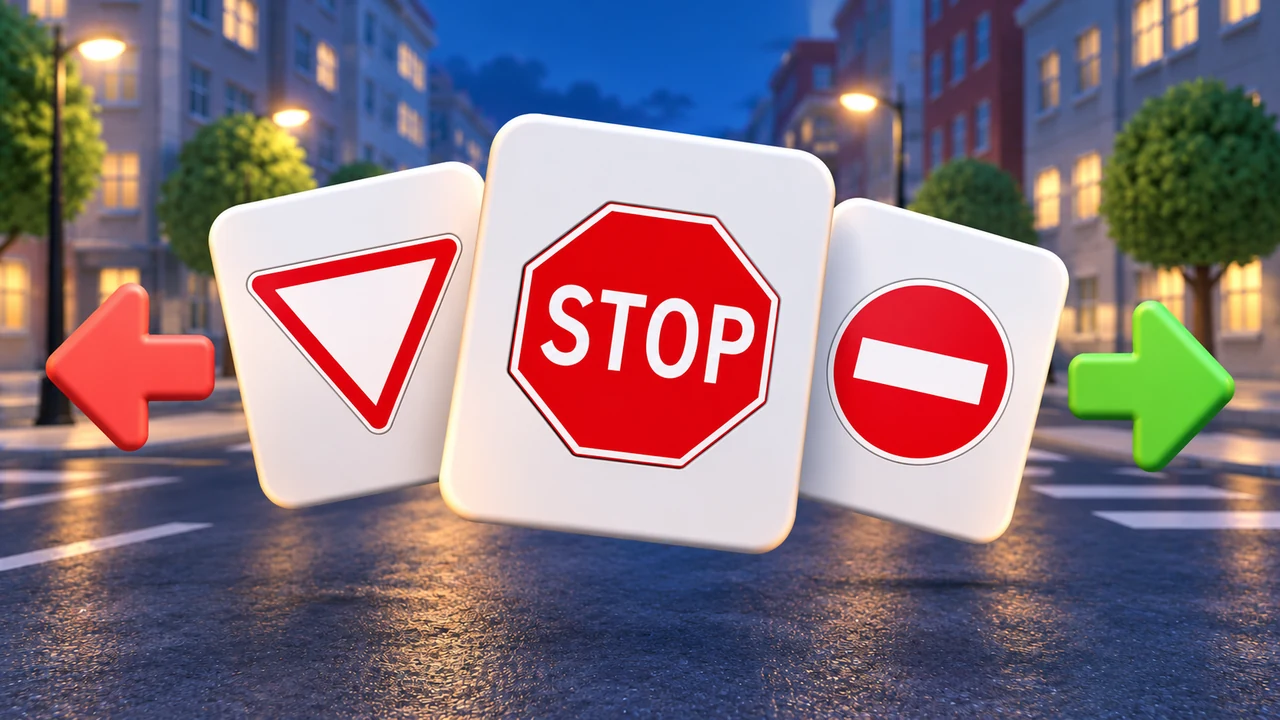
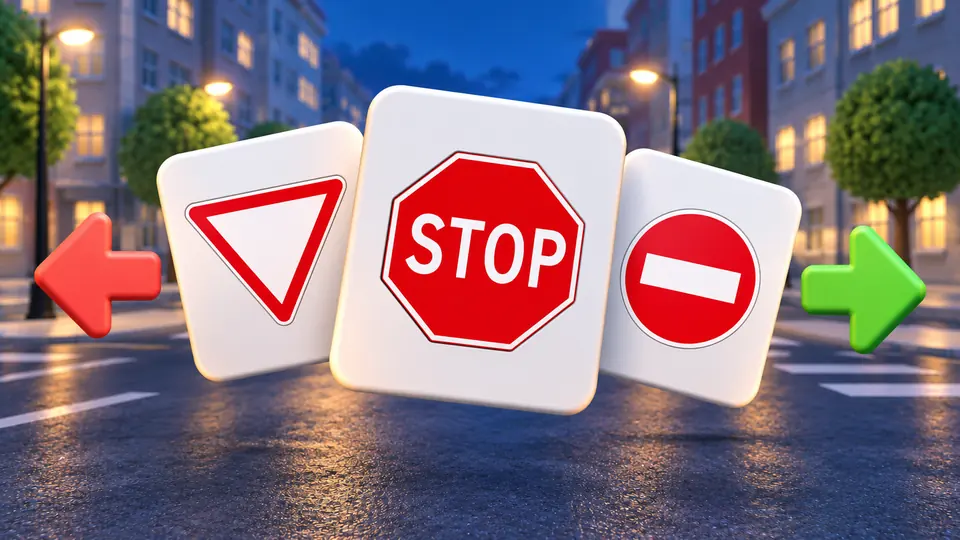
Мини-игры: полные обложки в результатах и оптимизация изображений

Changed region(s): [[0.3125, 0.8889, 0.4062, 1.0]]

diff --git a/lib/presentation/screens/games/games_hub_screen.dart b/lib/presentation/screens/games/games_hub_screen.dart
@@ -1,5 +1,4 @@
 import 'dart:math' as math;
-import 'dart:ui' as ui;
 
 import 'package:flutter/material.dart';
 import 'package:flutter_riverpod/flutter_riverpod.dart';
@@ -49,21 +48,21 @@ class GamesHubScreen extends ConsumerWidget {
             ),
           ),
           _GameCard(
-            art: const TrafficControllerArt(),
+            art: const TrafficControllerArt(forCard: true),
             title: appL10n.gameTrafficControllerTitle,
             bestScore: traffic.bestScore,
             onTap: () => _open(context, const TrafficControllerScreen()),
           ),
           const SizedBox(height: AppDimensions.spacingL),
           _GameCard(
-            art: const SignSwiperArt(),
+            art: const SignSwiperArt(forCard: true),
             title: appL10n.gameSignSwiperTitle,
             bestScore: signs.bestScore,
             onTap: () => _open(context, const SignSwiperScreen()),
           ),
           const SizedBox(height: AppDimensions.spacingL),
           _GameCard(
-            art: const RoundaboutArt(),
+            art: const RoundaboutArt(forCard: true),
             title: appL10n.gameRoundaboutTitle,
           ),
         ],
@@ -121,32 +120,19 @@ class _GameCard extends StatelessWidget {
                       fit: StackFit.expand,
                       children: [
                         art,
-                        // Мягко вводим размытие только в нижней части фото.
-                        ShaderMask(
-                          blendMode: BlendMode.dstIn,
-                          shaderCallback: (rect) => const LinearGradient(
-                            begin: Alignment.topCenter,
-                            end: Alignment.bottomCenter,
-                            colors: [Colors.transparent, Colors.white],
-                            stops: [0.58, 1],
-                          ).createShader(rect),
-                          child: ImageFiltered(
-                            imageFilter: ui.ImageFilter.blur(
-                              sigmaX: 3,
-                              sigmaY: 3,
-                            ),
-                            child: art,
-                          ),
-                        ),
-                        const DecoratedBox(
+                        DecoratedBox(
                           decoration: BoxDecoration(
                             gradient: LinearGradient(
                               begin: Alignment.topCenter,
                               end: Alignment.bottomCenter,
                               colors: [
                                 Colors.transparent,
-                                Color(0x18091121),
-                                Color(0xD9091121),
+                                available
+                                    ? const Color(0x18091121)
+                                    : const Color(0x18101010),
+                                available
+                                    ? const Color(0xD9091121)
+                                    : const Color(0xD9101010),
                               ],
                               stops: [0.25, 0.45, 1],
                             ),
@@ -240,34 +226,7 @@ class _GameCard extends StatelessWidget {
         ),
       ),
     );
-    if (available) return card;
-    return Opacity(
-      opacity: 0.55,
-      child: ColorFiltered(
-        colorFilter: const ColorFilter.matrix([
-          0.2126,
-          0.7152,
-          0.0722,
-          0,
-          0,
-          0.2126,
-          0.7152,
-          0.0722,
-          0,
-          0,
-          0.2126,
-          0.7152,
-          0.0722,
-          0,
-          0,
-          0,
-          0,
-          0,
-          1,
-          0,
-        ]),
-        child: card,
-      ),
-    );
+    if (available) return RepaintBoundary(child: card);
+    return Opacity(opacity: 0.55, child: RepaintBoundary(child: card));
   }
 }

diff --git a/lib/presentation/screens/games/widgets/game_art.dart b/lib/presentation/screens/games/widgets/game_art.dart
@@ -1,51 +1,73 @@
+import 'dart:math' as math;
+
 import 'package:flutter/material.dart';
 
-/// Игровые обложки в единой обработке: реальная сцена и карточки знаков.
-
-/// Обложка на основе настоящего кадра «Регулировщика».
+/// Карточки используют подготовленный blur; результаты — чёткий оригинал.
 class TrafficControllerArt extends StatelessWidget {
-  const TrafficControllerArt({super.key});
+  const TrafficControllerArt({super.key, this.forCard = false});
+
+  final bool forCard;
 
   @override
-  Widget build(BuildContext context) {
-    return Image.asset(
-      'assets/images/games/traffic_controller_cover.webp',
-      fit: BoxFit.cover,
-      alignment: Alignment.center,
-      filterQuality: FilterQuality.high,
-      gaplessPlayback: true,
-    );
-  }
+  Widget build(BuildContext context) => _GameCoverImage(
+    asset:
+        'assets/images/games/traffic_controller_${forCard ? 'card' : 'cover'}.webp',
+  );
 }
 
-/// Карточки со знаками и направлениями свайпа.
 class SignSwiperArt extends StatelessWidget {
-  const SignSwiperArt({super.key});
+  const SignSwiperArt({super.key, this.forCard = false});
+
+  final bool forCard;
 
   @override
-  Widget build(BuildContext context) {
-    return Image.asset(
-      'assets/images/games/sign_swiper_cover.webp',
-      fit: BoxFit.cover,
-      alignment: Alignment.center,
-      filterQuality: FilterQuality.high,
-      gaplessPlayback: true,
-    );
-  }
+  Widget build(BuildContext context) => _GameCoverImage(
+    asset: 'assets/images/games/sign_swiper_${forCard ? 'card' : 'cover'}.webp',
+  );
 }
 
-/// Круговое движение; недоступное состояние задаёт сама карточка.
+/// Неактивная карточка уже обесцвечена при подготовке ассета.
 class RoundaboutArt extends StatelessWidget {
-  const RoundaboutArt({super.key});
+  const RoundaboutArt({super.key, this.forCard = false});
+
+  final bool forCard;
+
+  @override
+  Widget build(BuildContext context) => _GameCoverImage(
+    asset: 'assets/images/games/roundabout_${forCard ? 'card' : 'cover'}.webp',
+  );
+}
+
+class _GameCoverImage extends StatelessWidget {
+  const _GameCoverImage({required this.asset});
+
+  final String asset;
 
   @override
   Widget build(BuildContext context) {
-    return Image.asset(
-      'assets/images/games/roundabout_cover.webp',
-      fit: BoxFit.cover,
-      alignment: Alignment.center,
-      filterQuality: FilterQuality.high,
-      gaplessPlayback: true,
+    return LayoutBuilder(
+      builder: (context, constraints) {
+        final width = constraints.hasBoundedWidth
+            ? constraints.maxWidth
+            : 480.0;
+        final heightWidth = constraints.hasBoundedHeight
+            ? constraints.maxHeight * 16 / 9
+            : width;
+        final pixels =
+            math.max(width, heightWidth) *
+            MediaQuery.devicePixelRatioOf(context);
+        // Три стабильных размера сохраняют общий image cache между экранами.
+        // На обычном телефоне — 480/720 px, на плотном дисплее — не более 960.
+        final decodeWidth = pixels <= 480 ? 480 : (pixels <= 720 ? 720 : 960);
+        return Image.asset(
+          asset,
+          fit: BoxFit.cover,
+          alignment: Alignment.center,
+          cacheWidth: decodeWidth,
+          filterQuality: FilterQuality.low,
+          gaplessPlayback: true,
+        );
+      },
     );
   }
 }

diff --git a/test/mini_games_flow_test.dart b/test/mini_games_flow_test.dart
@@ -19,6 +19,7 @@ import 'package:pdd_app/presentation/screens/games/sign_swiper/sign_swiper_scree
 import 'package:pdd_app/presentation/screens/games/sign_swiper/widgets/swipe_card_view.dart';
 import 'package:pdd_app/presentation/screens/games/traffic_controller/traffic_controller_screen.dart';
 import 'package:pdd_app/presentation/screens/games/widgets/game_ui.dart';
+import 'package:pdd_app/presentation/screens/games/widgets/game_art.dart';
 import 'package:shared_preferences/shared_preferences.dart';
 import 'package:webview_flutter_platform_interface/webview_flutter_platform_interface.dart';
 
@@ -322,6 +323,58 @@ void main() {
     await tester.pumpWidget(const SizedBox());
   });
 
+  for (final (name, art) in [
+    ('Traffic', const TrafficControllerArt()),
+    ('Swiper', const SignSwiperArt()),
+  ]) {
+    testWidgets('$name result shows the full cover on a compact screen', (
+      tester,
+    ) async {
+      var restarts = 0, exits = 0;
+      await open(
+        tester,
+        Scaffold(
+          body: GameResultOverlay(
+            art: art,
+            title: appL10n.gameOverTitle,
+            score: 3900,
+            bestScore: 1500,
+            isNewRecord: false,
+            stats: [
+              GameResultStat(appL10n.gameSolvedLabel, '10'),
+              GameResultStat(appL10n.gameAccuracyLabel, '77%'),
+              GameResultStat(appL10n.gameComboLabel, 'x8'),
+            ],
+            mistakesCount: 3,
+            onMistakes: () {},
+            onRestart: () => restarts++,
+            onExit: () => exits++,
+          ),
+        ),
+        size: const Size(320, 568),
+        textScale: 1.6,
+      );
+      await tester.pumpAndSettle();
+      final image = find.byType(Image);
+      final frame = tester.getRect(image);
+      // BoxFit.cover can crop only if the box disagrees with the 16:9 source.
+      expect(frame.width / frame.height, closeTo(16 / 9, 0.001));
+      final provider = tester.widget<Image>(image).image as ResizeImage;
+      expect(
+        (provider.imageProvider as AssetImage).assetName,
+        endsWith('_cover.webp'),
+      );
+      await tester.ensureVisible(find.text(appL10n.gameRestart));
+      await tester.tap(find.text(appL10n.gameRestart));
+      expect(restarts, 1);
+      await tester.ensureVisible(find.text(appL10n.gameExit));
+      await tester.tap(find.text(appL10n.gameExit));
+      expect(exits, 1);
+      expect(tester.takeException(), isNull);
+      await tester.pumpWidget(const SizedBox());
+    });
+  }
+
   testWidgets('Hub cover cards remain readable at 320px and large text', (
     tester,
   ) async {
@@ -352,7 +405,6 @@ void main() {
     );
     expect(find.text(appL10n.gameBestScore(123456789)), findsOneWidget);
     expect(find.text(appL10n.gameBestScore(987654321)), findsOneWidget);
-    expect(find.byType(ImageFiltered), findsNWidgets(3));
     for (final titleAndRecord in [
       (appL10n.gameTrafficControllerTitle, appL10n.gameBestScore(123456789)),
       (appL10n.gameSignSwiperTitle, appL10n.gameBestScore(987654321)),
@@ -367,7 +419,7 @@ void main() {
         of: cardStack,
         matching: find.byType(Image),
       );
-      expect(photo, findsNWidgets(2));
+      expect(photo, findsOneWidget);
       final photoRect = tester.getRect(photo.first);
       expect(photoRect.height, greaterThanOrEqualTo(190));
       for (final label in [titleAndRecord.$1, titleAndRecord.$2]) {

diff --git a/lib/presentation/screens/games/widgets/game_ui.dart b/lib/presentation/screens/games/widgets/game_ui.dart
@@ -332,6 +332,7 @@ class GameResultOverlay extends StatelessWidget {
             vertical: 24,
           ),
           clipBehavior: Clip.antiAlias,
+          constraints: const BoxConstraints(maxWidth: 420),
           child: Stack(
             children: [
               SingleChildScrollView(
@@ -341,7 +342,12 @@ class GameResultOverlay extends StatelessWidget {
                     mainAxisSize: MainAxisSize.min,
                     crossAxisAlignment: CrossAxisAlignment.stretch,
                     children: [
-                      SizedBox(height: 96, child: art),
+                      ClipRRect(
+                        borderRadius: BorderRadius.circular(
+                          AppDimensions.buttonRadius,
+                        ),
+                        child: AspectRatio(aspectRatio: 16 / 9, child: art),
+                      ),
                       const SizedBox(height: 10),
                       Text(
                         title,

diff --git a/lib/presentation/screens/games/traffic_controller/traffic_controller_screen.dart b/lib/presentation/screens/games/traffic_controller/traffic_controller_screen.dart
@@ -416,10 +416,7 @@ class _TrafficControllerScreenState
     final answered = _solvedCount + _wrongCount;
     final accuracy = answered > 0 ? (_solvedCount * 100 / answered).round() : 0;
     return GameResultOverlay(
-      art: ClipRRect(
-        borderRadius: BorderRadius.circular(AppDimensions.cardRadius),
-        child: const TrafficControllerArt(),
-      ),
+      art: const TrafficControllerArt(),
       title: _timeUp ? appL10n.gameTimeUp : appL10n.gameOverTitle,
       score: _score,
       bestScore: _previousBest,

diff --git a/docs/mini-game-covers.md b/docs/mini-game-covers.md
@@ -1,6 +1,6 @@
 # Обложки мини-игр
 
-Сгенерированы встроенным imagegen 2026-10-08. Итоговые ассеты: `assets/images/games/traffic_controller_cover.webp` и `assets/images/games/sign_swiper_cover.webp`, 1280×720, WebP. Названия, рекорды, градиент и размытие накладывает Flutter — в изображения они не вшиты.
+Сгенерированы встроенным imagegen 2026-10-08. Итоговые ассеты: `assets/images/games/traffic_controller_cover.webp` и `assets/images/games/sign_swiper_cover.webp`, 960×540, WebP. Названия, рекорды, градиент и размытие накладывает Flutter — в изображения они не вшиты.
 
 Регулировщик: основа — настоящий крупный кадр `assets/game/traffic-controller.html`, снятый headless Chrome с сигналом `rightArmForward`, подходом `front` и камерой `(2.5, 2.3, 4.2)`, направленной на `(0, 1.05, 0)`. Свайпер: стиль первой обложки и SVG знаков 2.4, 2.5, 3.1 из базы приложения.
 
@@ -29,7 +29,7 @@ Exact only text: STOP, on the stop sign. No captions, no title, no logo, no badg
 
 ## Круговое движение — итоговый промпт
 
-Сохранено как `assets/images/games/roundabout_cover.webp`, 1280×720. Чёрно-белый фильтр и прозрачность 55% применяются к карточке в Flutter; цветной оригинал сохранён для будущего запуска игры. Генерация — встроенный imagegen, 2026-10-08.
+Сохранено как `assets/images/games/roundabout_cover.webp`, 960×540. Чёрно-белый фильтр и прозрачность 55% применяются к карточке в Flutter; цветной оригинал сохранён для будущего запуска игры. Генерация — встроенный imagegen, 2026-10-08.
 
 ```text
 Use case: ads-marketing. Asset type: horizontal 16:9 mobile mini-game cover, matching a series.
@@ -39,3 +39,15 @@ A single correctly shaped Russian roundabout sign 4.3 can be visible near the fo
 Same soft-focus modern buildings and trees as the reference, warm lit windows, cool blue dusk sky. Strong simple composition readable at thumbnail size. Lower quarter calm asphalt for later UI title overlay.
 Generate a FULL COLOR master image. Grayscale and reduced opacity will be applied in actual Flutter UI for the unavailable state, do not bake those effects into the image. No lettering, no words, no captions, no interface, no badge, no logo, no watermark. No particles, no neon outlines, no lens flares, no plastic toy gloss, no extra decorative floating arrows. Strict horizontal16:9.
 ```
+
+## Подготовка для слабых телефонов
+
+`tools/optimize_game_covers.cjs` готовит два WebP 960×540 для каждой игры: чёткий `_cover.webp` (результат раунда, quality 76) и `_card.webp` (нижнее размытие уже в пикселях, quality 74). У кругового движения карточка сразу чёрно-белая. Gradients, текст и прозрачность остаются в Flutter. ImageFiltered, ShaderMask и ColorFiltered больше не участвуют в прокрутке карточек.
+
+Команда (Node.js с пакетом sharp):
+
+```sh
+node tools/optimize_game_covers.cjs --source-dir output/mini-games/cover-originals
+```
+
+Каталог источников содержит PNG `traffic_controller_cover.png`, `sign_swiper_cover.png`, `roundabout_cover.png`; это полноразмерные оригиналы imagegen, в публикацию не входят. Flutter декодирует 480/720/960 px в зависимости от размеров виджета и плотности экрана, никогда не выше оригинала. Три стабильных размера позволяют переиспользовать image cache при перестроениях.
